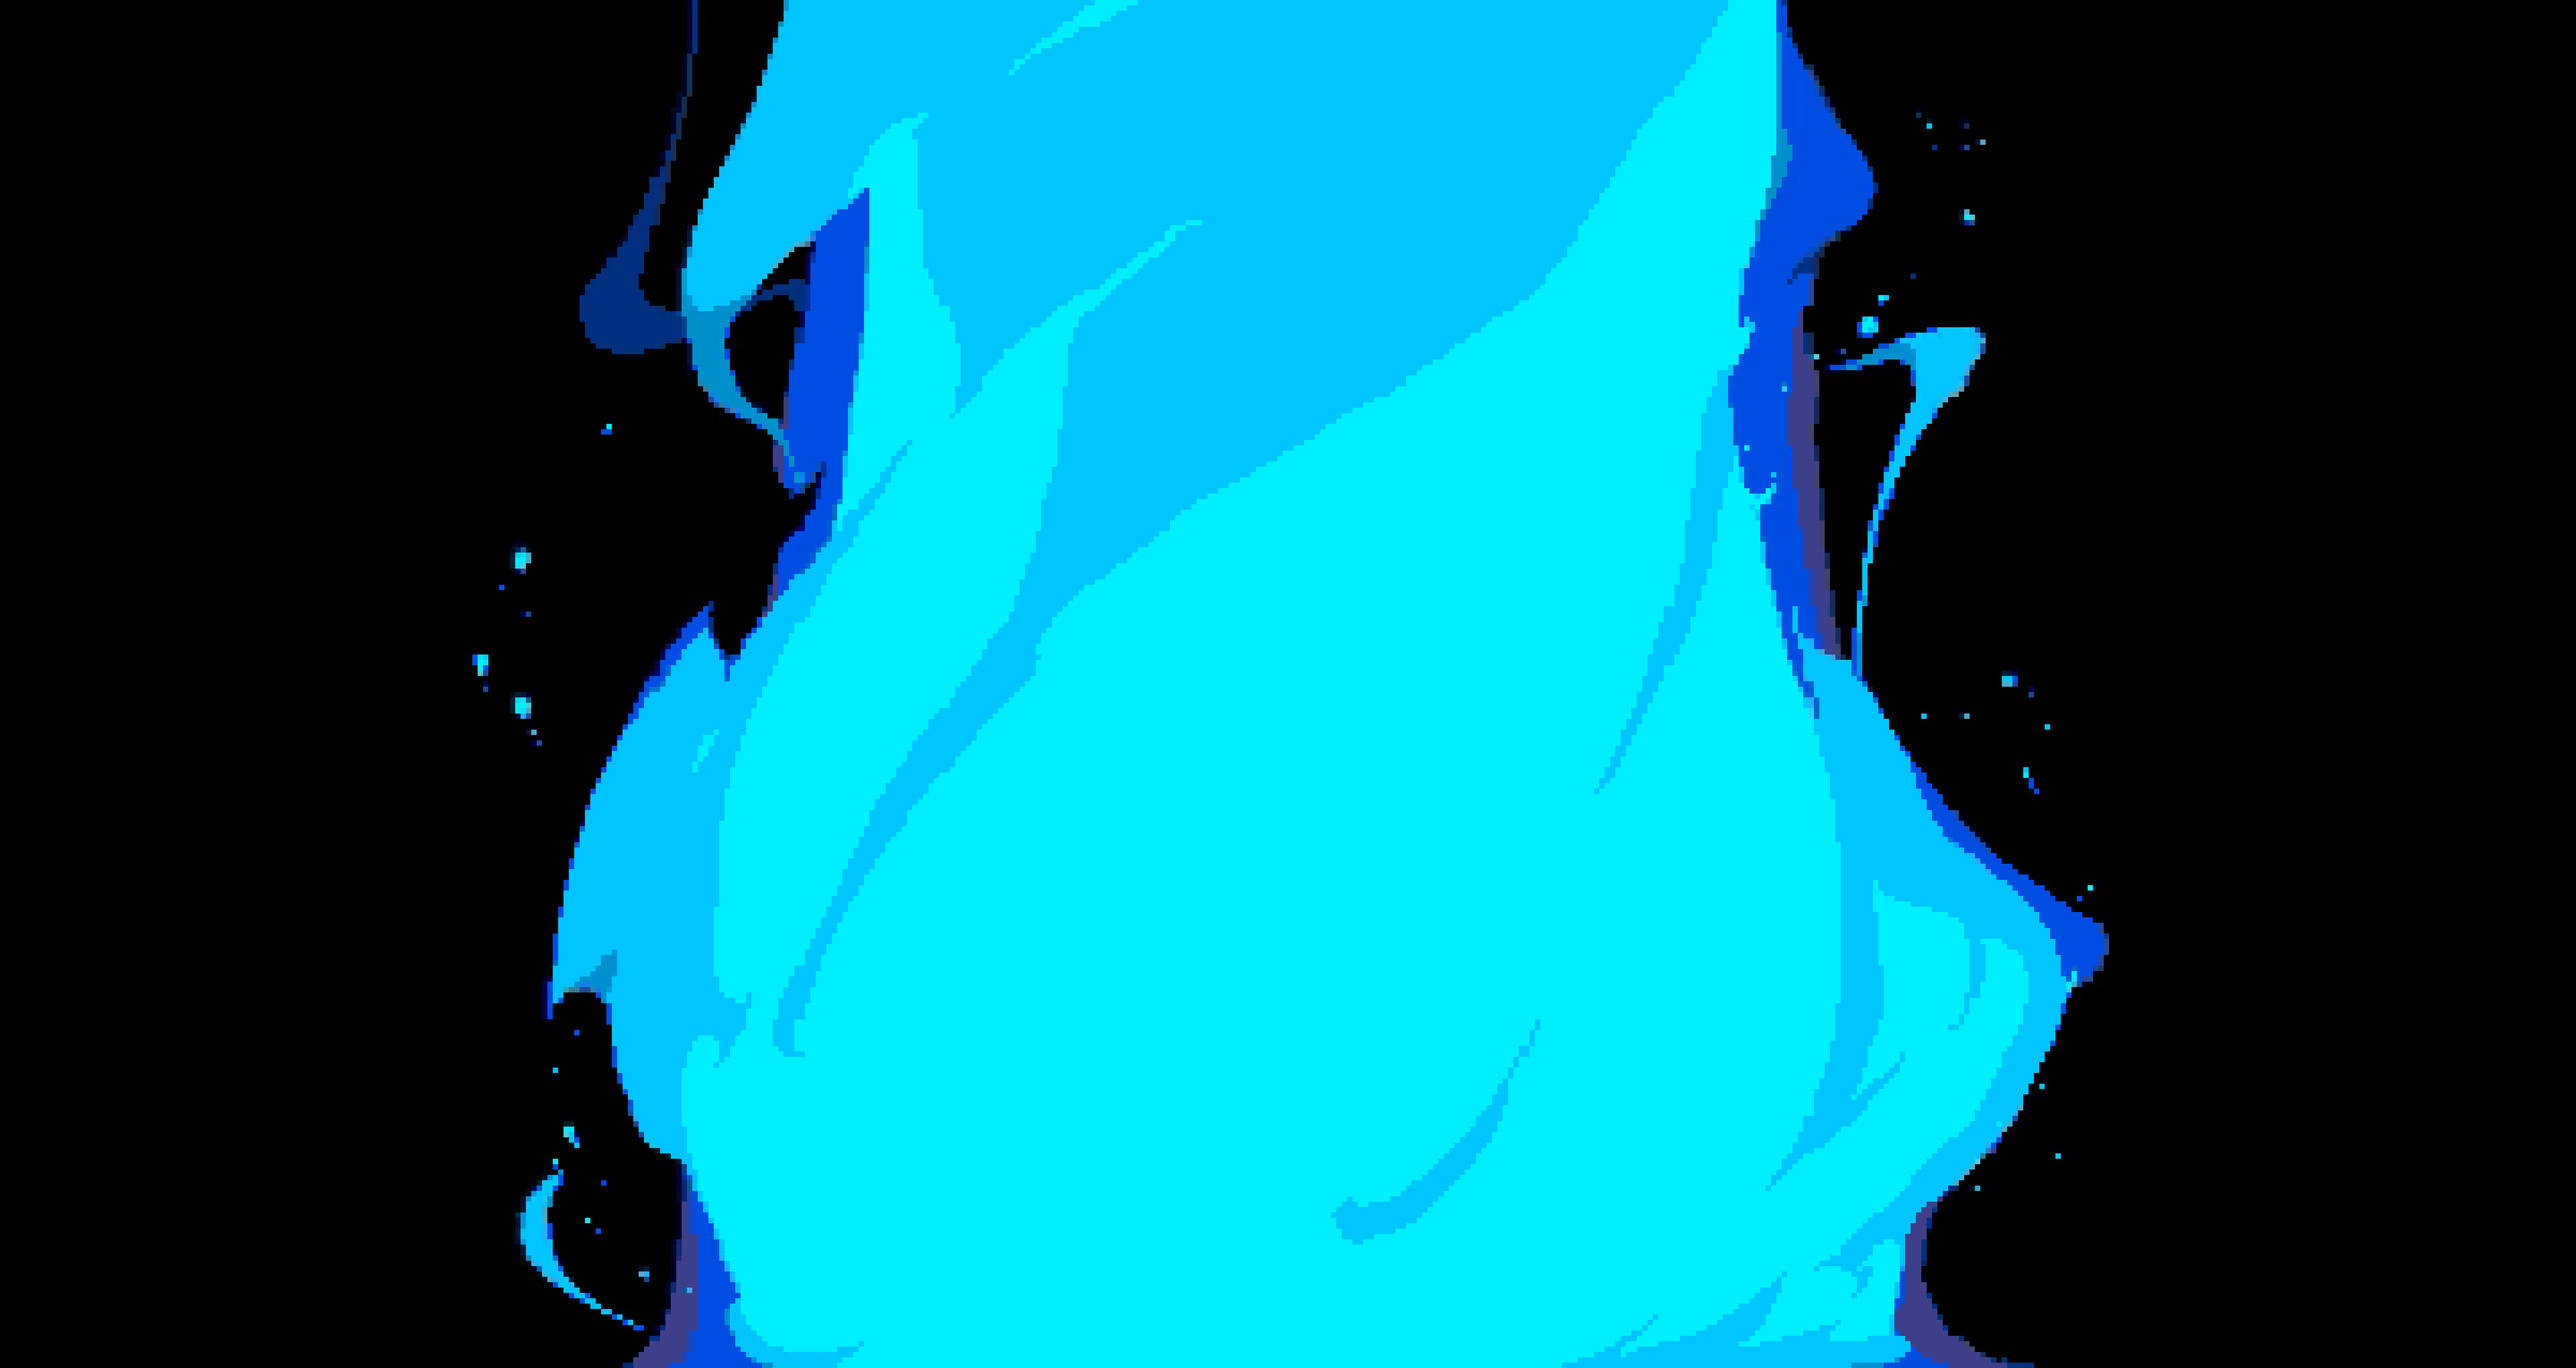
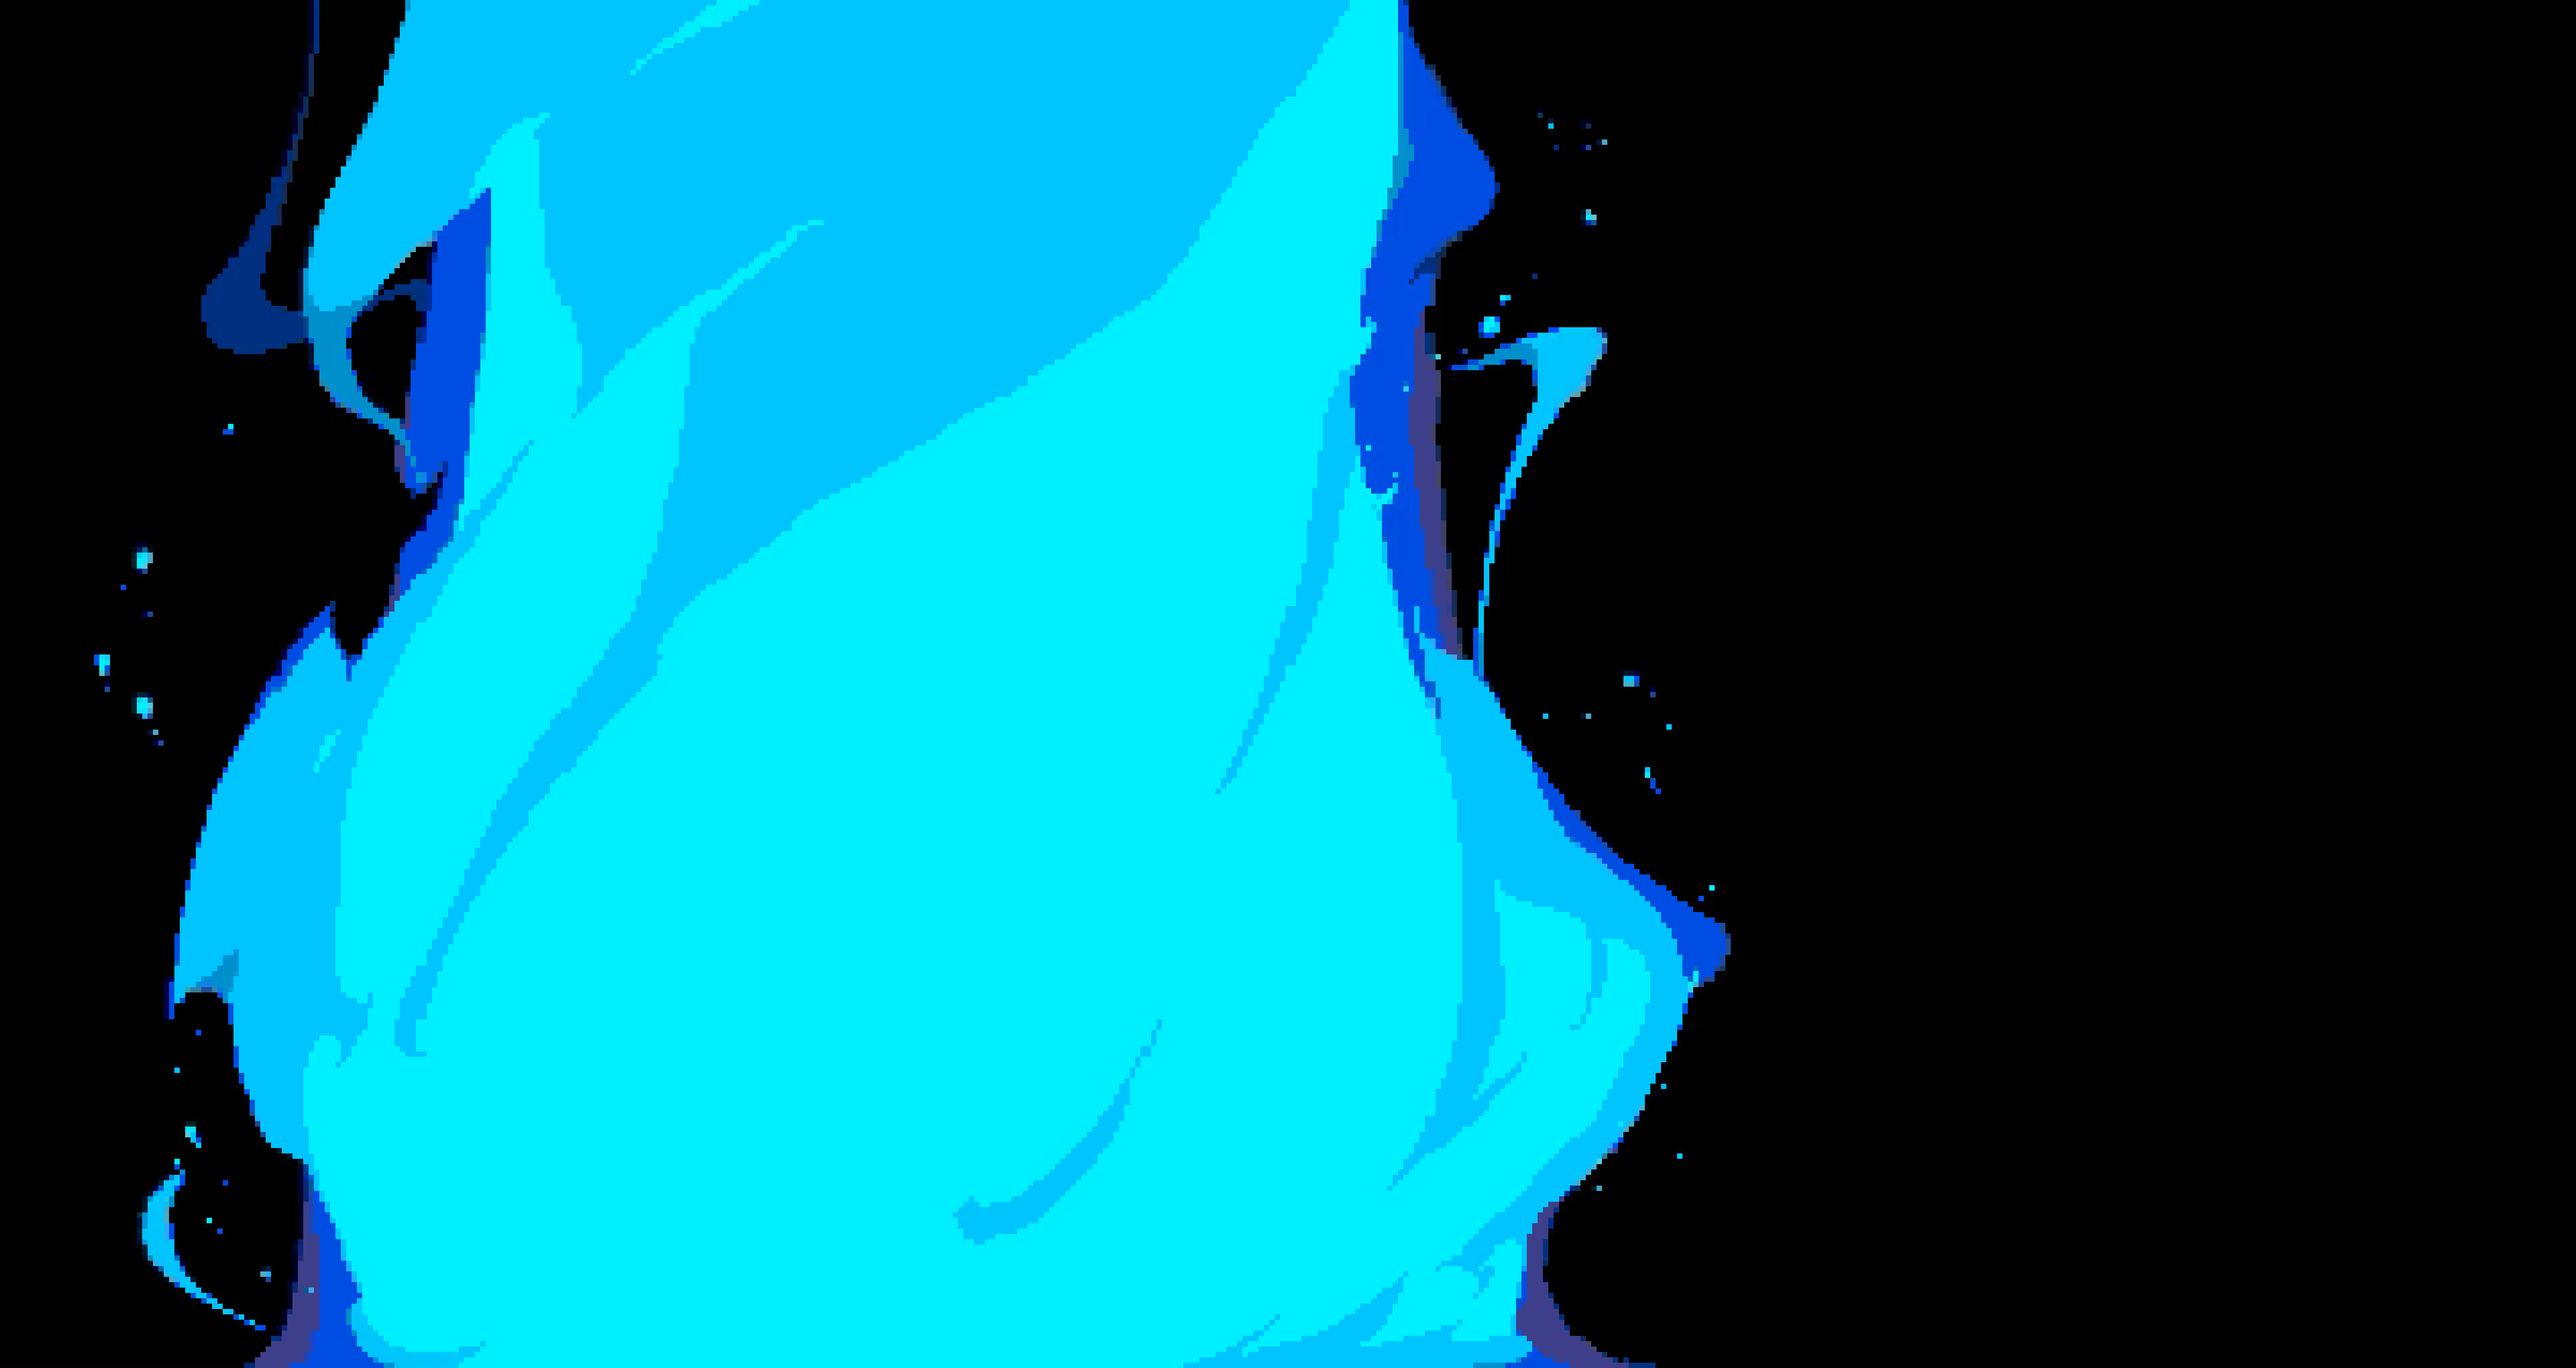
Updated parallax effect

diff --git a/index.html b/index.html
@@ -31,10 +31,10 @@
 
         const { clientX, clientY } = e;
         const { width, height } = container.getBoundingClientRect();
-        const xOffsetFountain = (clientX / width) * 50;
-        const yOffsetFountain = (clientY / height) * 50;
-        const xOffsetHeroes = (clientX / width) * 30;
-        const yOffsetHeroes = (clientY / height) * 30;
+        const xOffsetFountain = (clientX / width) * 20;
+        const yOffsetFountain = (clientY / height) * 20;
+        const xOffsetHeroes = (clientX / width) * 50;
+        const yOffsetHeroes = (clientY / height) * 50;
 
         fountain.style.transform = `translate(-${xOffsetFountain}%, -${yOffsetFountain}%)`;
         heroes.style.transform = `translate(-${xOffsetHeroes}%, -${yOffsetHeroes}%)`;
